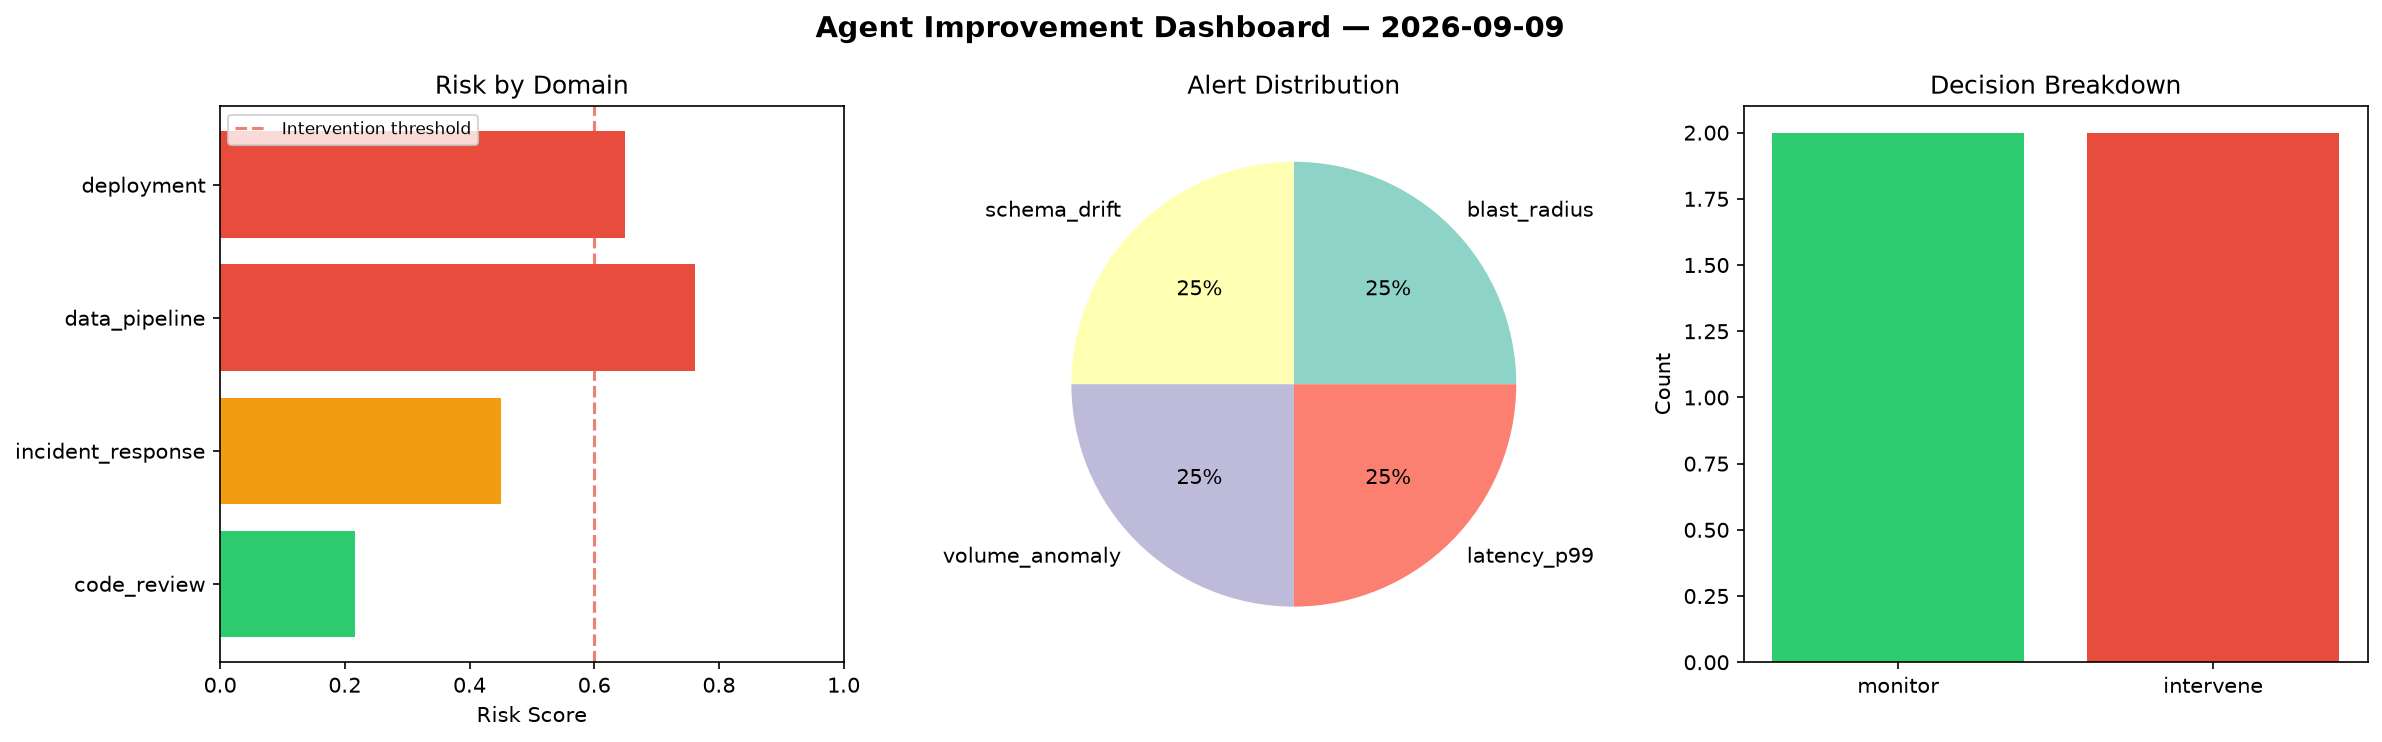
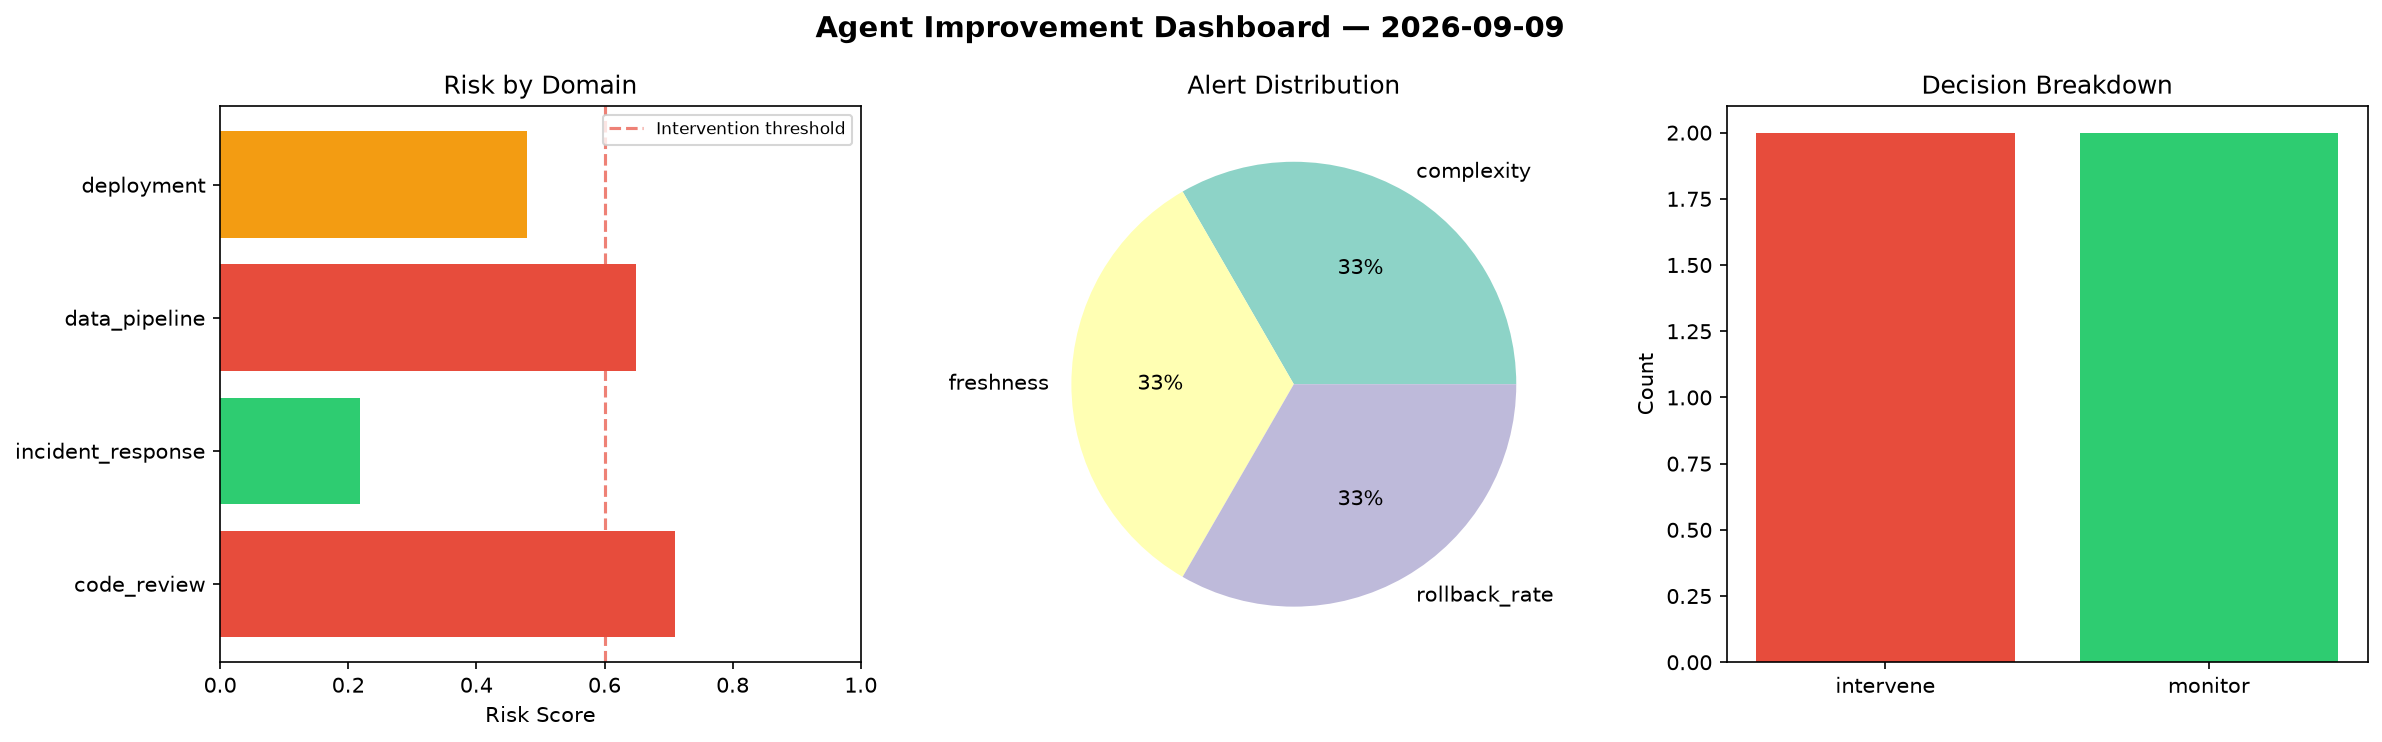
agent-improvement: daily cycle 2026-09-09T22:32

diff --git a/logs/2026-09-09.md b/logs/2026-09-09.md
@@ -1,6 +1,6 @@
 # Agent Improvement Report — 2026-09-09
 
-**Cycle ID:** `d52d252a` | **Avg Risk:** 0.5197 | **Interventions:** 2/4
+**Cycle ID:** `e654b56d` | **Avg Risk:** 0.5139 | **Interventions:** 2/4
 
 ![Dashboard](2026-09-09_dashboard.png)
 
@@ -10,18 +10,18 @@
 
 | Domain | Risk Score | Decision | Alerts |
 |--------|-----------|----------|--------|
-| code_review | 0.2171 | monitor | none |
-| incident_response | 0.4502 | monitor | blast_radius |
-| data_pipeline | 0.7615 | intervene | schema_drift, volume_anomaly |
-| deployment | 0.6501 | intervene | latency_p99 |
+| code_review | 0.71 | intervene | complexity |
+| incident_response | 0.2181 | monitor | none |
+| data_pipeline | 0.6485 | intervene | freshness |
+| deployment | 0.479 | monitor | rollback_rate |
 
 ## Delta vs Yesterday
 
 | Domain | Today | Yesterday | Change |
 |--------|-------|-----------|--------|
-| code_review | 0.2171 | 0.4195 | 📉 -48.2% |
-| incident_response | 0.4502 | 0.7152 | 📉 -37.1% |
-| data_pipeline | 0.7615 | 0.7131 | 📈 6.8% |
-| deployment | 0.6501 | 0.3534 | 📈 84.0% |
+| code_review | 0.71 | 0.4195 | 📈 69.2% |
+| incident_response | 0.2181 | 0.7152 | 📉 -69.5% |
+| data_pipeline | 0.6485 | 0.7131 | 📉 -9.1% |
+| deployment | 0.479 | 0.3534 | 📈 35.5% |
 
-**Refinement:** `{'adjustment': 'tighten_thresholds', 'trend': 'degrading', 'window': 4}`
+**Refinement:** `{'adjustment': 'maintain', 'trend': 'improving', 'window': 4}`
